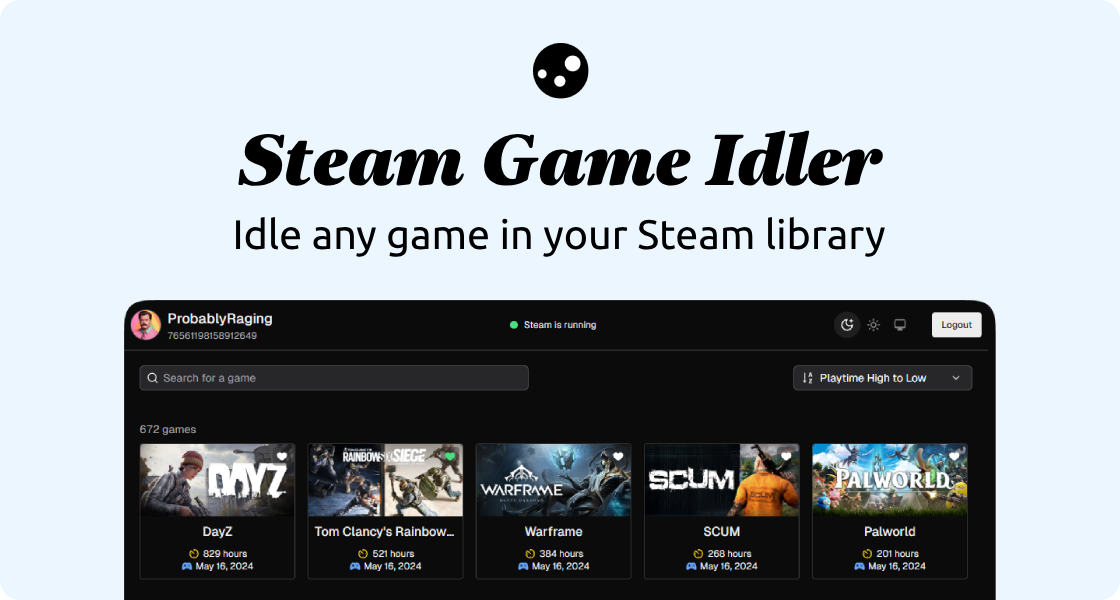
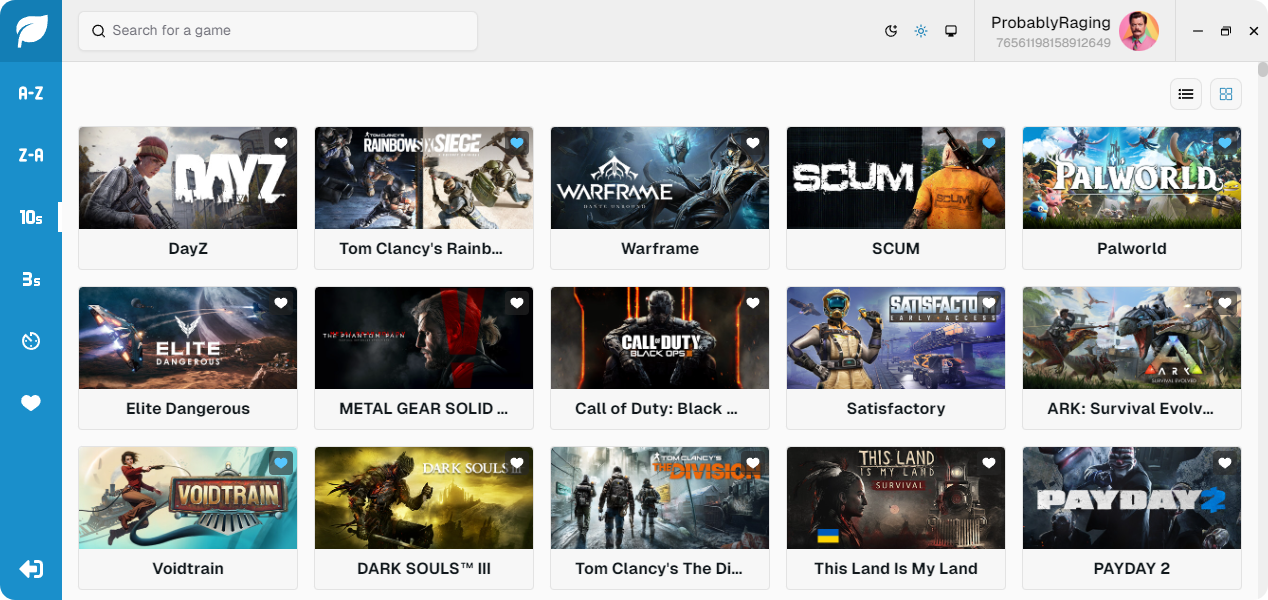
Updated README and example image

diff --git a/README.md b/README.md
@@ -1,0 +1,53 @@
+<p align="center">
+<img src="./public/logo.png" width='80' alt='Click for larger image'/>
+ <h1 align="center">Steam Game Idler</h1>
+ <p align="center">Idle any game in your Steam library. All you need is your Steam username or ID64. No password, token, or any other login information needed.</p>
+ <p align="center">Built with NextJS + Tauri.</p>
+</p>
+  <p align="center">
+    <a href="https://github.com/probablyraging/steam-game-idler/graphs/contributors">
+      <img alt="GitHub Contributors" src="https://img.shields.io/github/contributors/probablyraging/steam-game-idler" />
+    </a>
+    <a href="https://github.com/probablyraging/steam-game-idler/issues">
+      <img alt="Issues" src="https://img.shields.io/github/issues/probablyraging/steam-game-idler?color=0088ff" />
+    </a>
+    <a href="https://github.com/probablyraging/steam-game-idler/pulls">
+      <img alt="GitHub pull requests" src="https://img.shields.io/github/issues-pr/probablyraging/steam-game-idler?color=0088ff" />
+    </a>
+  </p>
+
+<div align="center">
+  <img src="./public/example.png" width='700' alt='Click for larger image'/>
+</div>
+
+# Portable[¹](https://github.com/ProbablyRaging/steam-game-idler#notes)
+Download the latest `portable` release from [Releases](https://github.com/ProbablyRaging/steam-game-idler/releases)
+
+# Installer
+Download the latest `installer` release from [Releases](https://github.com/ProbablyRaging/steam-game-idler/releases)
+
+*Bundled with dependencies + automatic updates*
+
+# Build It Yourself
+1. Clone the repoistory
+```
+git clone https://github.com/ProbablyRaging/steam-game-idler.git
+```
+2. Install dependencies
+```
+npm install
+```
+3. Build the app
+```
+npm run tauri build
+```
+4. Check the console output for build directory *(usually `/src-tauri/target/release/bundle`)* 
+
+# Usage
+1. Enter your Steam username or [SteamID64](https://steamid.io/)
+2. Make sure Steam is running
+3. Click one or more games that you want to idle
+4. That's it, it's that simple
+
+## Notes
+¹ *[WebView2](https://developer.microsoft.com/en-us/microsoft-edge/webview2/?form=MA13LH#download-section) required. On Windows 10 (Version 1803 and later with all updates applied) and Windows 11, the WebView2 runtime is distributed as part of the operating system. Use the MSI Installer if you're unsure, as it comes bundled with all dependencies.*
